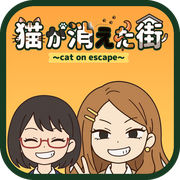
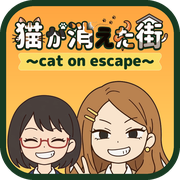
ロゴの「〜cat on escape〜」の 帯を 大きく して、タイトルの はばに そろえる
- logo.png を 元の 画像から 作りなおし（タイトルと 帯を 分けて、帯を 約1.8倍に）
- アイコンも 新しい ロゴで 書きなおし。紹介ページの ロゴの 高さの 指定を あわせる

Claude-Session: https://claude.ai/code/session_01Bo2xWdtDrEkLvj3EeV6Q3Z

Changed region(s): [[0.0833, 0.2778, 0.9167, 0.4167]]

diff --git a/index.html b/index.html
@@ -91,7 +91,7 @@
   <div class="wrap hero-grid">
     <div>
       <span class="pill"><b>無料</b> · インストール不要 · 通信なし · MIT License</span>
-      <img class="hero-logo" src="app/images/story/logo.png" alt="猫が消えた街 〜cat on escape〜" width="1200" height="388">
+      <img class="hero-logo" src="app/images/story/logo.png" alt="猫が消えた街 〜cat on escape〜" width="1200" height="448">
       <h1>そろえたら、<br>ねこは 走りだす。</h1>
       <p class="lead">ねこの顔を となりと いれかえて、タテか ヨコに 3匹そろえるパズル。
         そろった ねこは ぎょうれつを つくって、画面の 右へ 走って 逃げていきます。
